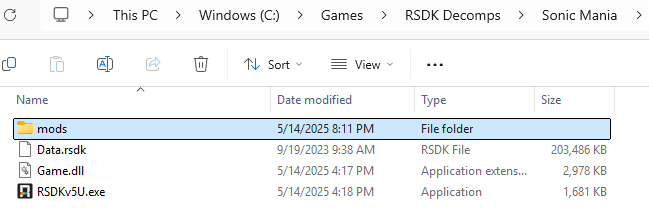
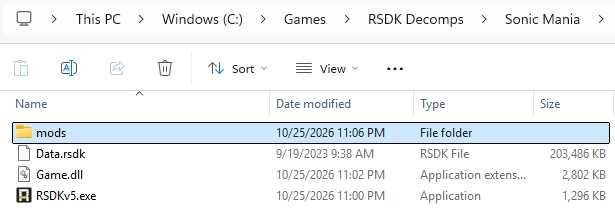
Update guides

diff --git a/docs/Guides/RSDKv5/Decompilation/Building.md b/docs/Guides/RSDKv5/Decompilation/Building.md
@@ -1,4 +1,4 @@
-# Building the RSDKv5 & Sonic Mania Decompilations
+# Building the RSDKv5 Decompilation
 
 The RSDKv5 and Sonic Mania decompilations use [CMake](https://cmake.org/), a versatile building system that supports many different compilers and platforms.
 
@@ -63,6 +63,7 @@ Clone the repo **recursively** by running this command in the target directory:
         **DO NOT** clone the repository in a Windows user directory. This includes folders such as Documents, Downloads, and the Desktop. These directories are known to cause issues when building. It's recommended to instead clone the repo somewhere in a `GitHub` folder located in the root of the C drive, or another drive entirely if possible.
 
 If you'd like to update the cloned repository, you can do so by running these commands in it:
+
 ```
 git pull
 git submodule update --remote --init
@@ -186,14 +187,14 @@ git submodule update --remote --init
     === "64-bit"
 
         ```
-        cmake -B build --fresh -DCMAKE_TOOLCHAIN_FILE="%VCPKG_ROOT%/scripts/buildsystems/vcpkg.cmake" -DVCPKG_TARGET_TRIPLET=x64-windows-static
+        cmake -B build --fresh -DCMAKE_BUILD_TYPE=Release -DCMAKE_TOOLCHAIN_FILE="%VCPKG_ROOT%/scripts/buildsystems/vcpkg.cmake" -DVCPKG_TARGET_TRIPLET=x64-windows-static
         cmake --build build --parallel --config Release
         ```
 
     === "32-bit"
 
         ```
-        cmake -B build --fresh -DCMAKE_TOOLCHAIN_FILE="%VCPKG_ROOT%/scripts/buildsystems/vcpkg.cmake" -DVCPKG_TARGET_TRIPLET=x86-windows-static -A Win32
+        cmake -B build --fresh -DCMAKE_BUILD_TYPE=Release -DCMAKE_TOOLCHAIN_FILE="%VCPKG_ROOT%/scripts/buildsystems/vcpkg.cmake" -DVCPKG_TARGET_TRIPLET=x86-windows-static -A Win32
         cmake --build build --parallel --config Release
         ```
 
@@ -206,7 +207,7 @@ git submodule update --remote --init
     Enter the following commands in the RSDKv5/Mania decompilation repository directory:
 
     ```
-    cmake -B build --fresh
+    cmake -B build --fresh -DCMAKE_BUILD_TYPE=Release
     cmake --build build --parallel --config Release
     ```
 
@@ -219,7 +220,7 @@ git submodule update --remote --init
     Enter the following commands in the RSDKv5/Mania decompilation repository directory:
 
     ```
-    cmake -B build --fresh -DCMAKE_TOOLCHAIN_FILE=/opt/devkitpro/cmake/Switch.cmake
+    cmake -B build --fresh -DCMAKE_BUILD_TYPE=Release -DCMAKE_TOOLCHAIN_FILE=/opt/devkitpro/cmake/Switch.cmake
     cmake --build build --parallel --config Release
     ```
 
@@ -249,7 +250,7 @@ git submodule update --remote --init
 
 | Flag                      | Description                                                                                                                                                                                                             | Value Type                             | Default Value                                                 |
 | ------------------------- | ----------------------------------------------------------------------------------------------------------------------------------------------------------------------------------------------------------------------- | -------------------------------------- | ------------------------------------------------------------- |
-| **RETRO_REVISION**        | The RSDKv5 revision to compile. Datapacks for certain versions of Sonic Mania only work on older revisions. Set to `3` to build RSDKv5U.                                                                                | Integer (See [Revisions](#revisions))  | `3`                                                           |
+| **RETRO_REVISION**        | The RSDKv5 revision to compile. Certain games or versions of games require a specific revision to work.                                                                                                                 | Integer (See [Revisions](#revisions))  | Depends on repository; `3` for `RSDKv5-Decompilation`         |
 | **RETRO_DISABLE_PLUS**    | Disables access to content from Sonic Mania and Sonic Origins' Plus DLC. [**Any publicly distributed builds must have this flag enabled.**](https://github.com/RSDKModding/RSDKv5-Decompilation/blob/master/LICENSE.md) | Boolean                                | `off`                                                         |
 | **RETRO_MOD_LOADER**      | Enables the ability the load mods and certain features related to them.                                                                                                                                                 | Boolean                                | `on`                                                          |
 | **RETRO_MOD_LOADER_VER**  | The revision of the mod loader to build.                                                                                                                                                                                | Integer (`1`, `2`, or `3`)             | `3`                                                           |
@@ -334,8 +335,8 @@ If you still have all of the dependencies and other prerequisites for building t
 
 ### Which subsystem should I use? { id="which-subsystem" }
 
-If you're building for Windows and would like to use a DirectInput (non-Xbox) controller, you should use OpenGL. Otherwise, just use the default subsystem.
+If you're building for Windows and would like to use a DirectInput (non-Xbox) controller, you should use OpenGL. Otherwise, unless you know what you're doing, just use the default subsystem.
 
 ### What's the difference between RSDKv5 and RSDKv5U? { id="v5-vs-v5u" }
 
-RSDKv5U adds compatibility for playing RSDKv3 (i.e. Sonic CD) and RSDKv4 (i.e. Sonic 1 & 2) games, including support for local multiplayer. The v5 side of the engine also recieves minor changes, such as altered collision and additional functionality.
+RSDKv5U adds compatibility for playing RSDKv3 (i.e. Sonic CD) and RSDKv4 (i.e. Sonic 1 & 2) games, including support for local multiplayer. The v5 side of the engine also recieves minor changes, such as altered collision and additional functionality. Sonic Mania does not work with RSDKv5U due to issues with collision and the way v5U loads static object data.

diff --git a/docs/Guides/RSDKv5/Decompilation/Setup.md b/docs/Guides/RSDKv5/Decompilation/Setup.md
@@ -1,18 +1,31 @@
-# Setting Up the RSDKv5 & Sonic Mania Decompilations
+# Setting Up the RSDKv5 Decompilation
 
 ## Prerequisites
 
--   A build of the RSDKv5 Decompilation for the target platform. You can get one by:
-    - [Building the source code](Building.md) (Recommended)
-    - [Downloading the latest release](https://github.com/RSDKModding/RSDKv5-Decompilation/releases/latest) (Mania/Origins Plus DLC will not be accessible)
-    - [Downloading an autobuild](https://github.com/RSDKModding/RSDKv5-Decompilation/actions) (Must be signed into GitHub to download, Mania/Origins Plus DLC will not be accessible)
--   A build of the Sonic Mania Decompilation for the target platform. You can get one by:
-    - [Building the source code](Building.md) (Recommended)
-    - [Downloading the latest release](https://github.com/RSDKModding/Sonic-Mania-Decompilation/releases/latest)
-    - [Downloading an autobuild](https://github.com/RSDKModding/Sonic-Mania-Decompilation/actions) (Must be signed into GitHub to download)
--   [A datapack (Data.rsdk) for Sonic Mania](../../Games/SonicMania/Datapack.md)
-    - The decompilations are not compatible with datapacks from the Netflix Games releases of the game.
--   [Visual C++ Redistributables](https://learn.microsoft.com/en-us/cpp/windows/latest-supported-vc-redist?view=msvc-170#latest-microsoft-visual-c-redistributable-version) (Windows only)
+=== "Sonic Mania"
+
+    -   A build of the RSDKv5 Decompilation for the target platform. Make sure you use a build of standalone v5, not v5U. You can get one by:
+        - [Building the source code](Building.md) (Recommended)
+        - [Downloading the latest release](https://github.com/RSDKModding/RSDKv5-Decompilation/releases/latest) (Mania Plus DLC will not be accessible)
+        - [Downloading an autobuild](https://github.com/RSDKModding/RSDKv5-Decompilation/actions) (Must be signed into GitHub to download, Mania Plus DLC will not be accessible)
+    -   A build of the Sonic Mania Decompilation for the target platform. You can get one by:
+        - [Building the source code](Building.md) (Recommended)
+        - [Downloading the latest release](https://github.com/RSDKModding/Sonic-Mania-Decompilation/releases/latest)
+        - [Downloading an autobuild](https://github.com/RSDKModding/Sonic-Mania-Decompilation/actions) (Must be signed into GitHub to download)
+    -   [A datapack (Data.rsdk) for Sonic Mania](../../Games/SonicMania/Datapack.md)
+        - The decompilations are not compatible with datapacks from the Netflix Games releases of the game.
+    -   [Visual C++ Redistributables](https://learn.microsoft.com/en-us/cpp/windows/latest-supported-vc-redist?view=msvc-170#latest-microsoft-visual-c-redistributable-version) (Windows only)
+
+=== "Legacy v3/v4 Game"
+
+    -   A build of the RSDKv5U Decompilation for the target platform. Make sure you use a build of v5U, not standalone v5. You can get one by:
+        - [Building the source code](Building.md) (Recommended)
+        - [Downloading the latest release](https://github.com/RSDKModding/RSDKv5-Decompilation/releases/latest) (Origins Plus DLC will not be accessible)
+        - [Downloading an autobuild](https://github.com/RSDKModding/RSDKv5-Decompilation/actions) (Must be signed into GitHub to download, Origins Plus DLC will not be accessible)
+    -   A datapack for the Sonic Origins version of one of the compatible games:
+        - [Sonic 1 / Sonic 2](../../Games/Sonic1-2/Datapack.md)
+        - [Sonic CD](../../Games/SonicCD/Datapack.md)
+    -   [Visual C++ Redistributables](https://learn.microsoft.com/en-us/cpp/windows/latest-supported-vc-redist?view=msvc-170#latest-microsoft-visual-c-redistributable-version) (Windows only)
 
 ## Setup
 
@@ -22,21 +35,37 @@
 
         It's highly recommended to [enable file extensions in File Explorer](https://www.thewindowsclub.com/show-file-extensions-in-windows) to reduce the chance of a file being named incorrectly.
 
-    Place the decompilation EXE file (and any included DLL files) in the target directory.
+    === "Sonic Mania"
 
-    !!! warning
+        Place the decompilation EXE file (and any included DLL files) in the target directory.
 
-        **DO NOT** place the decompilation in the directory of an official Mania release. Doing this is known to cause issues.
+        !!! warning
 
-    ![RSDKv5(U).exe](../../../assets/images/Windows/FileExplorer/SonicMania/Setup-EXE.png)
+            **DO NOT** place the decompilation in the directory of an official Mania release. Doing this is known to cause issues.
 
-    Place the `Data.rsdk` and `Game.dll` files in this directory.
+        ![RSDKv5.exe](../../../assets/images/Windows/FileExplorer/SonicMania/Setup-EXE.png)
 
-    ![Data.rsdk and Game.dll](../../../assets/images/Windows/FileExplorer/SonicMania/Setup-RSDK-DLL.png)
+        Place the `Data.rsdk` and `Game.dll` files in this directory.
 
-    !!! tip
+        ![Data.rsdk and Game.dll](../../../assets/images/Windows/FileExplorer/SonicMania/Setup-RSDK-DLL.png)
 
-        If you're not using either DirectX subsystem, it's highly recommended to [install the custom shaders mod](ShadersSetup.md).
+        !!! tip
+
+            If you're not using either DirectX subsystem, it's highly recommended to [install the custom shaders mod](ShadersSetup.md).
+
+    === "Legacy v3/v4 Game"
+
+        Place the decompilation EXE file (and any included DLL files) in the target directory.
+
+        ![RSDKv5U.exe](../../../assets/images/Windows/FileExplorer/Sonic1-2/Setup-EXE-v5U.png)
+
+        Place the datapack in this directory and rename it to `Data.rsdk`, if it isn't named that already.
+
+        ![Data.rsdk](../../../assets/images/Windows/FileExplorer/Sonic1-2/Setup-RSDK-v5U.png)
+
+        !!! tip
+
+            It's highly recommended to [install the custom shaders mod](ShadersSetup.md).
 
 === "Linux"
 

diff --git a/docs/Guides/RSDKv2/Decompilation/Building.md b/docs/Guides/RSDKv2/Decompilation/Building.md
@@ -36,6 +36,8 @@ git clone --recursive https://github.com/RSDKModding/RSDKv2-Decompilation
 
     **DO NOT** clone the repository in a Windows user directory. This includes folders such as Documents, Downloads, and the Desktop. These directories are known to cause issues when building. It's recommended to instead clone the repo somewhere in a `GitHub` folder located in the root of the C drive, or another drive entirely if possible.
 
+If you'd like to update the cloned repository, you can do so by running the command `git pull` in it.
+
 ## Getting dependencies
 
 === "Windows"
@@ -118,14 +120,14 @@ git clone --recursive https://github.com/RSDKModding/RSDKv2-Decompilation
     === "64-bit"
 
         ```
-        cmake -B build --fresh -DCMAKE_TOOLCHAIN_FILE="%VCPKG_ROOT%/scripts/buildsystems/vcpkg.cmake" -DVCPKG_TARGET_TRIPLET=x64-windows-static -DCMAKE_PREFIX_PATH="%VCPKG_ROOT%/installed/x64-windows-static/"
+        cmake -B build --fresh -DCMAKE_BUILD_TYPE=Release -DCMAKE_TOOLCHAIN_FILE="%VCPKG_ROOT%/scripts/buildsystems/vcpkg.cmake" -DVCPKG_TARGET_TRIPLET=x64-windows-static -DCMAKE_PREFIX_PATH="%VCPKG_ROOT%/installed/x64-windows-static/"
         cmake --build build --parallel --config Release
         ```
 
     === "32-bit"
 
         ```
-        cmake -B build --fresh -DCMAKE_TOOLCHAIN_FILE="%VCPKG_ROOT%/scripts/buildsystems/vcpkg.cmake" -DVCPKG_TARGET_TRIPLET=x86-windows-static -DCMAKE_PREFIX_PATH="%VCPKG_ROOT%/installed/x86-windows-static/" -A Win32
+        cmake -B build --fresh -DCMAKE_BUILD_TYPE=Release -DCMAKE_TOOLCHAIN_FILE="%VCPKG_ROOT%/scripts/buildsystems/vcpkg.cmake" -DVCPKG_TARGET_TRIPLET=x86-windows-static -DCMAKE_PREFIX_PATH="%VCPKG_ROOT%/installed/x86-windows-static/" -A Win32
         cmake --build build --parallel --config Release
         ```
 
@@ -138,7 +140,7 @@ git clone --recursive https://github.com/RSDKModding/RSDKv2-Decompilation
     Enter the following commands in the RSDKv2 decompilation repository directory:
 
     ```
-    cmake -B build --fresh
+    cmake -B build --fresh -DCMAKE_BUILD_TYPE=Release
     cmake --build build --parallel --config Release
     ```
 

diff --git a/docs/Guides/RSDKv3/Decompilation/Building.md b/docs/Guides/RSDKv3/Decompilation/Building.md
@@ -41,6 +41,7 @@ git clone --recursive https://github.com/RSDKModding/RSDKv3-Decompilation
     **DO NOT** clone the repository in a Windows user directory. This includes folders such as Documents, Downloads, and the Desktop. These directories are known to cause issues when building. It's recommended to instead clone the repo somewhere in a `GitHub` folder located in the root of the C drive, or another drive entirely if possible.
 
 If you'd like to update the cloned repository, you can do so by running these commands in it:
+
 ```
 git pull
 git submodule update --remote --init
@@ -152,14 +153,14 @@ git submodule update --remote --init
     === "64-bit"
 
         ```
-        cmake -B build --fresh -DCMAKE_TOOLCHAIN_FILE="%VCPKG_ROOT%/scripts/buildsystems/vcpkg.cmake" -DVCPKG_TARGET_TRIPLET=x64-windows-static -DCMAKE_PREFIX_PATH="%VCPKG_ROOT%/installed/x64-windows-static/"
+        cmake -B build --fresh -DCMAKE_BUILD_TYPE=Release -DCMAKE_TOOLCHAIN_FILE="%VCPKG_ROOT%/scripts/buildsystems/vcpkg.cmake" -DVCPKG_TARGET_TRIPLET=x64-windows-static -DCMAKE_PREFIX_PATH="%VCPKG_ROOT%/installed/x64-windows-static/"
         cmake --build build --parallel --config Release
         ```
 
     === "32-bit"
 
         ```
-        cmake -B build --fresh -DCMAKE_TOOLCHAIN_FILE="%VCPKG_ROOT%/scripts/buildsystems/vcpkg.cmake" -DVCPKG_TARGET_TRIPLET=x86-windows-static -DCMAKE_PREFIX_PATH="%VCPKG_ROOT%/installed/x86-windows-static/" -A Win32
+        cmake -B build --fresh -DCMAKE_BUILD_TYPE=Release -DCMAKE_TOOLCHAIN_FILE="%VCPKG_ROOT%/scripts/buildsystems/vcpkg.cmake" -DVCPKG_TARGET_TRIPLET=x86-windows-static -DCMAKE_PREFIX_PATH="%VCPKG_ROOT%/installed/x86-windows-static/" -A Win32
         cmake --build build --parallel --config Release
         ```
 
@@ -172,7 +173,7 @@ git submodule update --remote --init
     Enter the following commands in the RSDKv3 decompilation repository directory:
 
     ```
-    cmake -B build --fresh
+    cmake -B build --fresh -DCMAKE_BUILD_TYPE=Release
     cmake --build build --parallel --config Release
     ```
 

diff --git a/docs/Guides/RSDKv4/Decompilation/Building.md b/docs/Guides/RSDKv4/Decompilation/Building.md
@@ -41,6 +41,7 @@ git clone --recursive https://github.com/RSDKModding/RSDKv4-Decompilation
     **DO NOT** clone the repository in a Windows user directory. This includes folders such as Documents, Downloads, and the Desktop. These directories are known to cause issues when building. It's recommended to instead clone the repo somewhere in a `GitHub` folder located in the root of the C drive, or another drive entirely if possible.
 
 If you'd like to update the cloned repository, you can do so by running these commands in it:
+
 ```
 git pull
 git submodule update --remote --init
@@ -152,14 +153,14 @@ git submodule update --remote --init
     === "64-bit"
 
         ```
-        cmake -B build --fresh -DCMAKE_TOOLCHAIN_FILE="%VCPKG_ROOT%/scripts/buildsystems/vcpkg.cmake" -DVCPKG_TARGET_TRIPLET=x64-windows-static -DCMAKE_PREFIX_PATH="%VCPKG_ROOT%/installed/x64-windows-static/"
+        cmake -B build --fresh -DCMAKE_BUILD_TYPE=Release -DCMAKE_TOOLCHAIN_FILE="%VCPKG_ROOT%/scripts/buildsystems/vcpkg.cmake" -DVCPKG_TARGET_TRIPLET=x64-windows-static -DCMAKE_PREFIX_PATH="%VCPKG_ROOT%/installed/x64-windows-static/"
         cmake --build build --parallel --config Release
         ```
 
     === "32-bit"
 
         ```
-        cmake -B build --fresh -DCMAKE_TOOLCHAIN_FILE="%VCPKG_ROOT%/scripts/buildsystems/vcpkg.cmake" -DVCPKG_TARGET_TRIPLET=x86-windows-static -DCMAKE_PREFIX_PATH="%VCPKG_ROOT%/installed/x86-windows-static/" -A Win32
+        cmake -B build --fresh -DCMAKE_BUILD_TYPE=Release -DCMAKE_TOOLCHAIN_FILE="%VCPKG_ROOT%/scripts/buildsystems/vcpkg.cmake" -DVCPKG_TARGET_TRIPLET=x86-windows-static -DCMAKE_PREFIX_PATH="%VCPKG_ROOT%/installed/x86-windows-static/" -A Win32
         cmake --build build --parallel --config Release
         ```
 
@@ -172,7 +173,7 @@ git submodule update --remote --init
     Enter the following commands in the RSDKv4 decompilation repository directory:
 
     ```
-    cmake -B build --fresh
+    cmake -B build --fresh -DCMAKE_BUILD_TYPE=Release
     cmake --build build --parallel --config Release
     ```
 

diff --git a/docs/Guides/RSDKv5/Decompilation/ModSetup.md b/docs/Guides/RSDKv5/Decompilation/ModSetup.md
@@ -1,8 +1,8 @@
-# Setting Up Mods for the RSDKv5 & Sonic Mania Decompilations
+# Setting Up Mods for the RSDKv5 Decompilation
 
 !!! note
 
-    This guide assumes you have already [set up the RSDKv5 & Sonic Mania decompilations](Setup.md).
+    This guide assumes you have already [set up the RSDKv5 decompilation](Setup.md).
 
 ## Mods Folder
 
@@ -34,7 +34,7 @@ To control the menu, press :material-gamepad-round-up: or :material-gamepad-roun
 
 !!! question "How do I change mod priority?"
 
-    Mod priority is determined based on the order of the mods in the mod list; mods get loaded from bottom to top. You can shift a mod up or down in the mod list by holding :material-alpha-c-circle:{ .controller-c } while pressing :material-gamepad-round-up: or :material-gamepad-round-down:.
+    Mod priority is determined based on the order of the mods in the mod list; mods get loaded from bottom to top. You can shift a mod up or down in the mod list by holding :material-alpha-c-circle:{ .controller-c } while pressing :material-gamepad-round-up: or :material-gamepad-round-down:. If you don't have access to a controller or keyboard, you will need to manually edit the order in the `modconfig.ini` file in the `mods` folder.
 
 ## Troubleshooting
 

diff --git a/docs/Guides/RSDKv2/Decompilation/ModSetup.md b/docs/Guides/RSDKv2/Decompilation/ModSetup.md
@@ -37,4 +37,4 @@ To control the menu, press :material-gamepad-round-up: or :material-gamepad-roun
 
 !!! question "How do I change mod priority?"
 
-    Mod priority is determined based on the order of the mods in the Mod List; mods get loaded from bottom to top. You can shift a mod up or down in the Mod List by holding :material-alpha-c-circle:{ .controller-c } while pressing :material-gamepad-round-up: or :material-gamepad-round-down:.
+    Mod priority is determined based on the order of the mods in the Mod List; mods get loaded from bottom to top. You can shift a mod up or down in the Mod List by holding :material-alpha-c-circle:{ .controller-c } while pressing :material-gamepad-round-up: or :material-gamepad-round-down:. If you don't have access to a controller or keyboard, you will need to manually edit the order in the `modconfig.ini` file in the `mods` folder.

diff --git a/docs/Guides/RSDKv3/Decompilation/ModSetup.md b/docs/Guides/RSDKv3/Decompilation/ModSetup.md
@@ -54,4 +54,4 @@ To control the menu, press :material-gamepad-round-up: or :material-gamepad-roun
 
 !!! question "How do I change mod priority?"
 
-    Mod priority is determined based on the order of the mods in the Mod List; mods get loaded from bottom to top. You can shift a mod up or down in the Mod List by holding :material-alpha-c-circle:{ .controller-c } while pressing :material-gamepad-round-up: or :material-gamepad-round-down:.
+    Mod priority is determined based on the order of the mods in the Mod List; mods get loaded from bottom to top. You can shift a mod up or down in the Mod List by holding :material-alpha-c-circle:{ .controller-c } while pressing :material-gamepad-round-up: or :material-gamepad-round-down:. If you don't have access to a controller or keyboard, you will need to manually edit the order in the `modconfig.ini` file in the `mods` folder.

diff --git a/docs/Guides/RSDKv4/Decompilation/ModSetup.md b/docs/Guides/RSDKv4/Decompilation/ModSetup.md
@@ -54,4 +54,4 @@ To control the menu, press :material-gamepad-round-up: or :material-gamepad-roun
 
 !!! question "How do I change mod priority?"
 
-    Mod priority is determined based on the order of the mods in the Mod List; mods get loaded from bottom to top. You can shift a mod up or down in the Mod List by holding :material-alpha-c-circle:{ .controller-c } while pressing :material-gamepad-round-up: or :material-gamepad-round-down:.
+    Mod priority is determined based on the order of the mods in the Mod List; mods get loaded from bottom to top. You can shift a mod up or down in the Mod List by holding :material-alpha-c-circle:{ .controller-c } while pressing :material-gamepad-round-up: or :material-gamepad-round-down:. If you don't have access to a controller or keyboard, you will need to manually edit the order in the `modconfig.ini` file in the `mods` folder.
